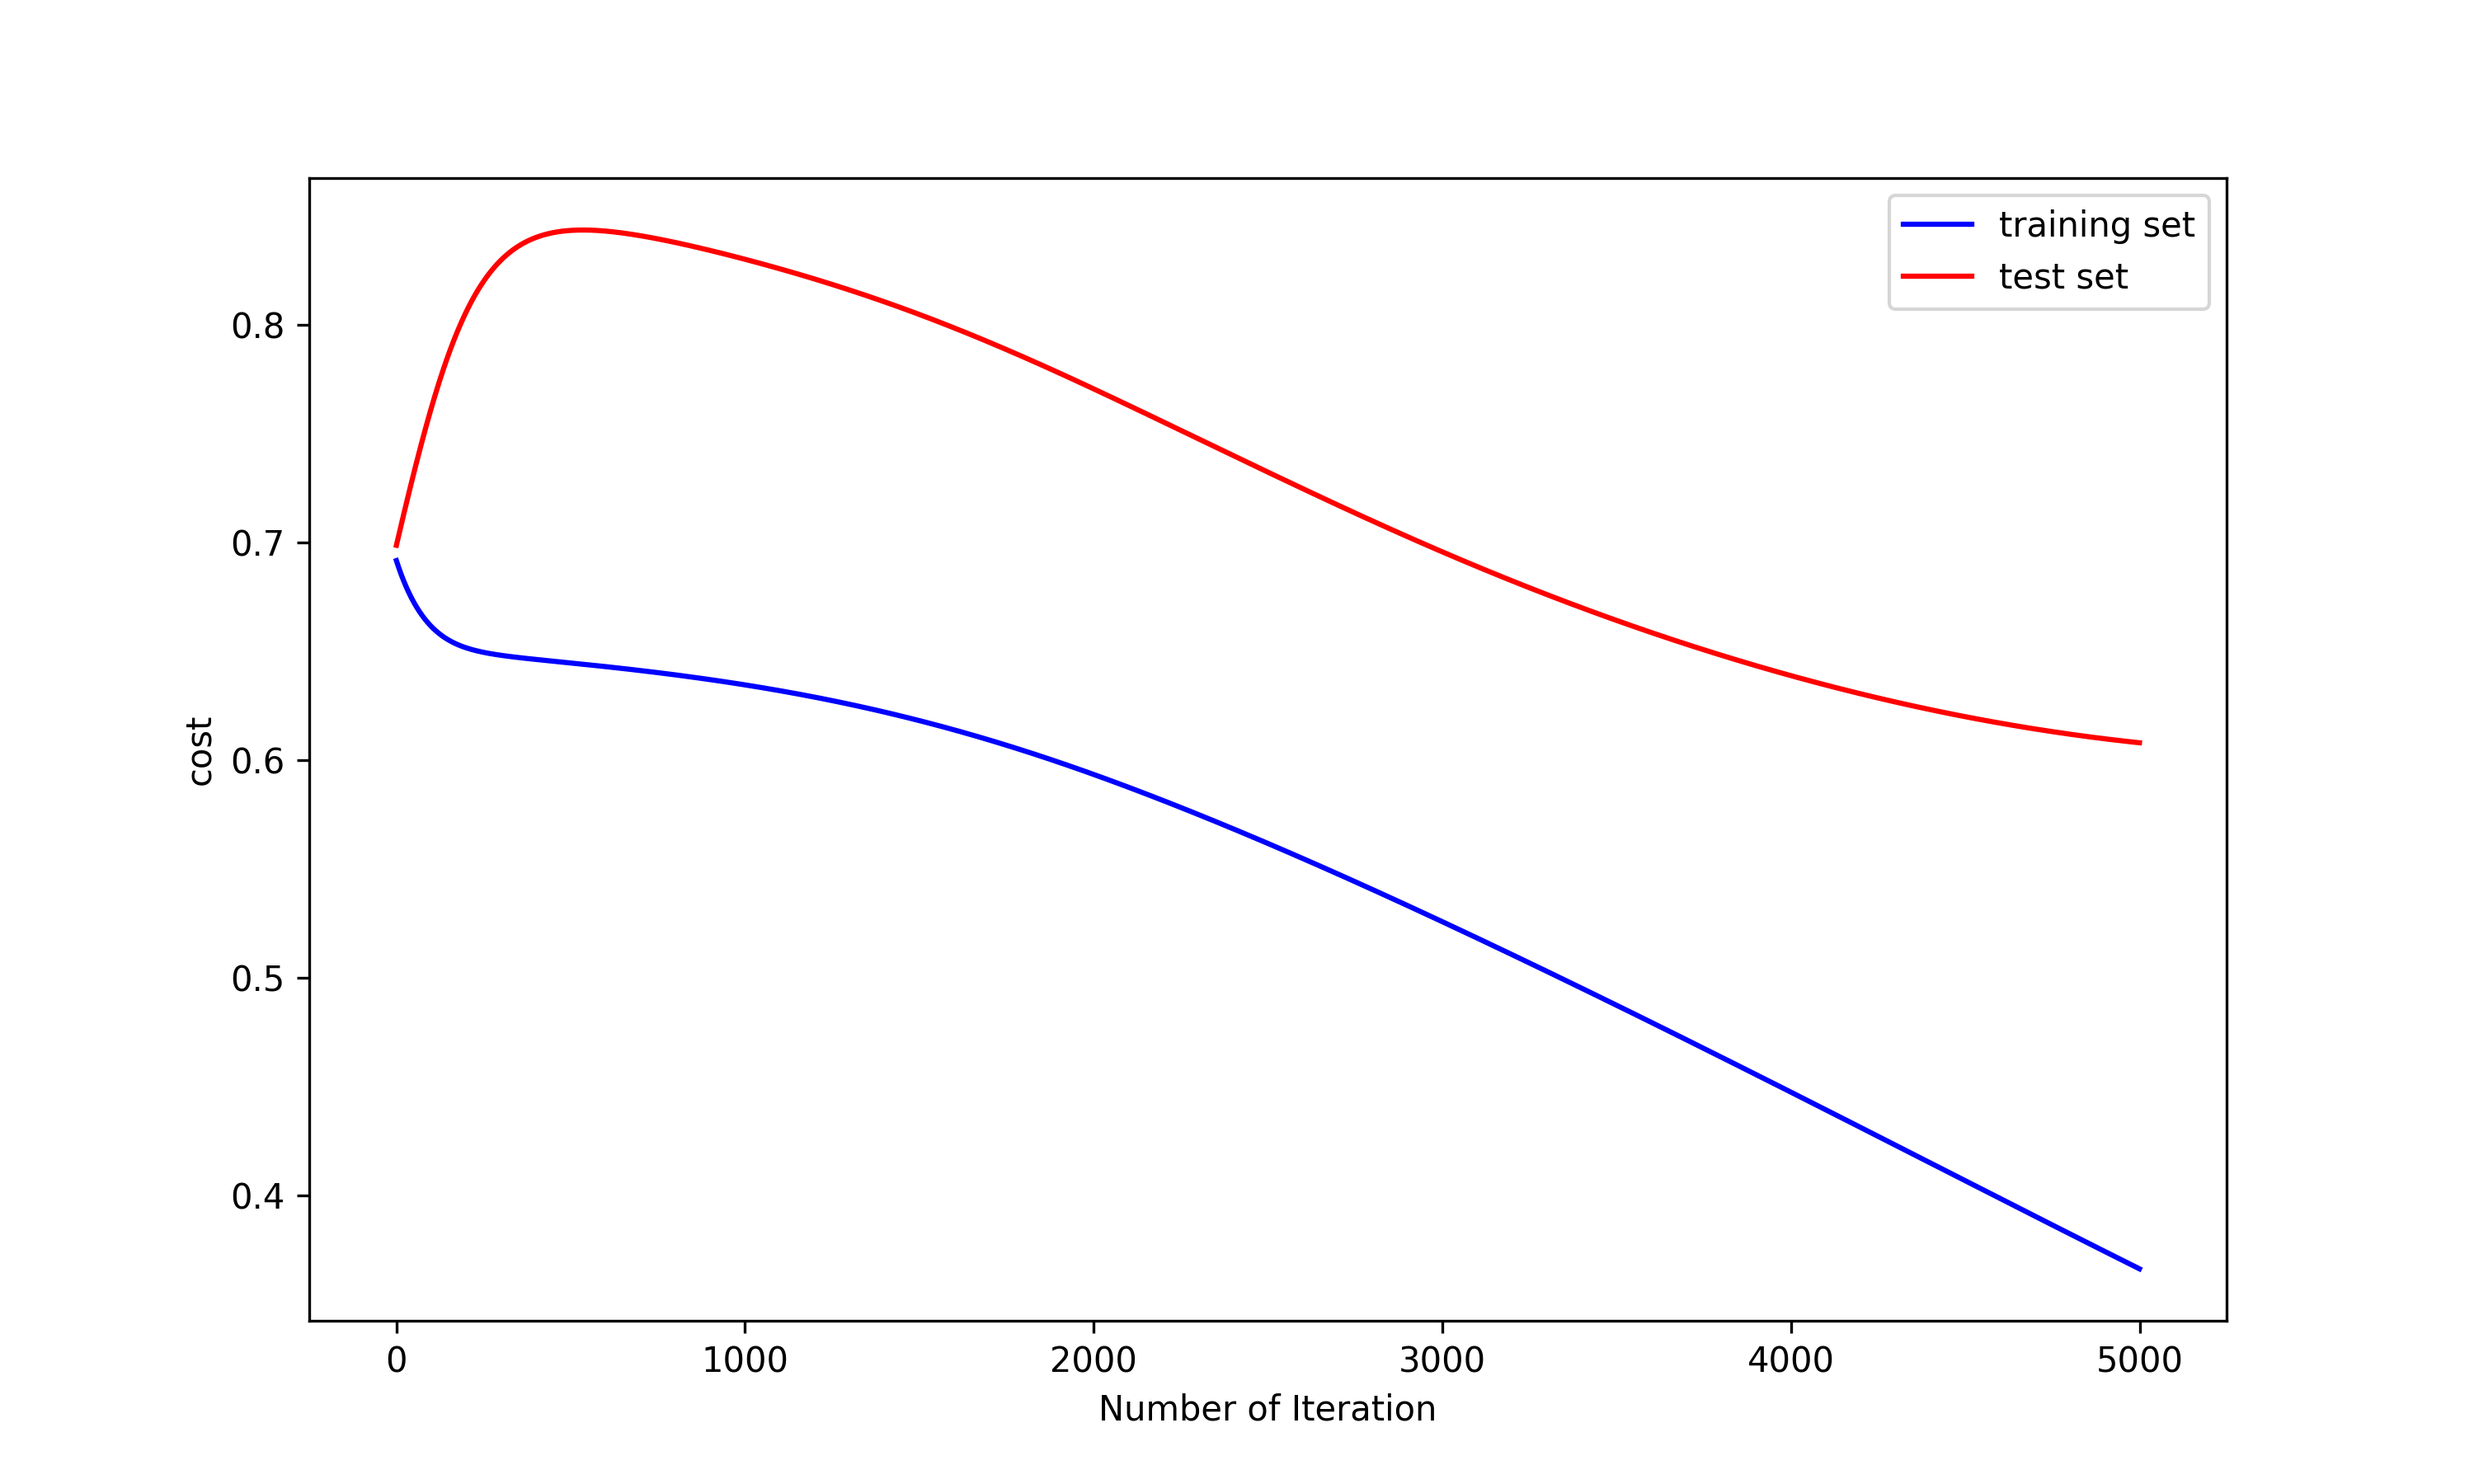
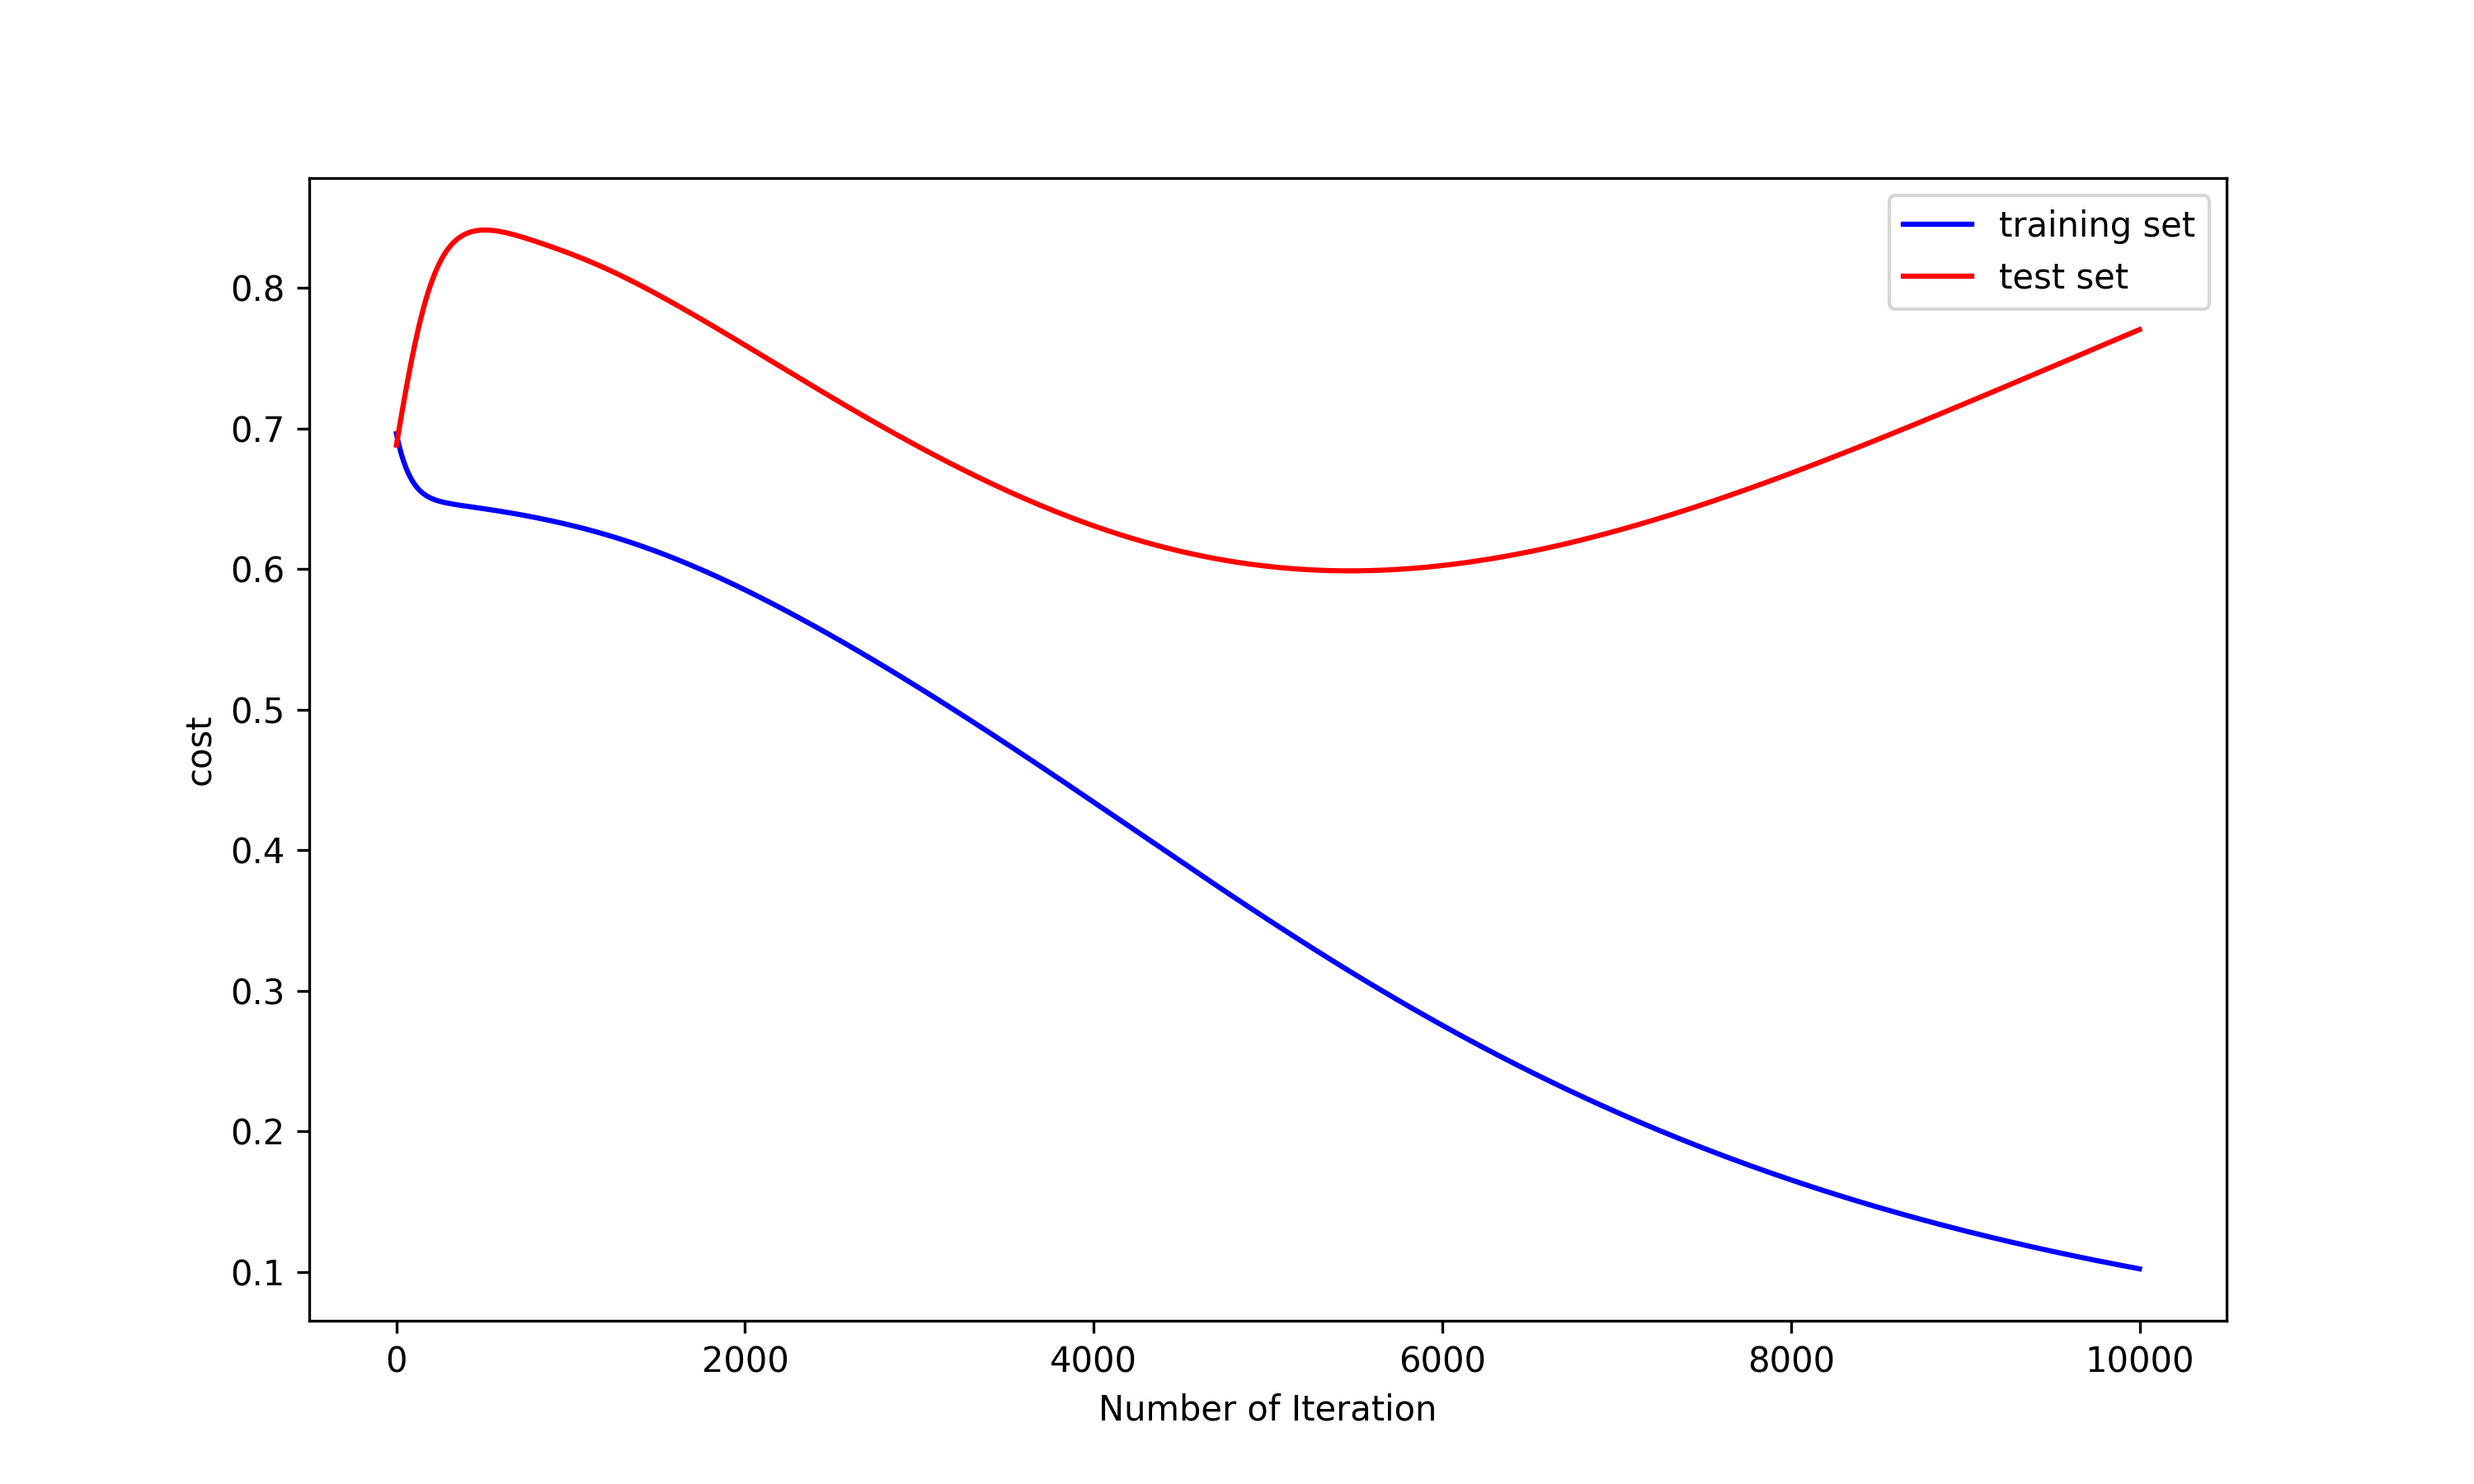
cat vs. non cat classifier using single hidden layer neural network.

diff --git a/one_hidden_layer/main.py b/one_hidden_layer/main.py
@@ -192,7 +192,7 @@ def main():
     n_2 = y_train.shape[0]
 
     # max iterations and learning rate
-    max_iteration = 5000
+    max_iteration = 10000
     learning_rate = 0.001
 
     # initialize parameters
